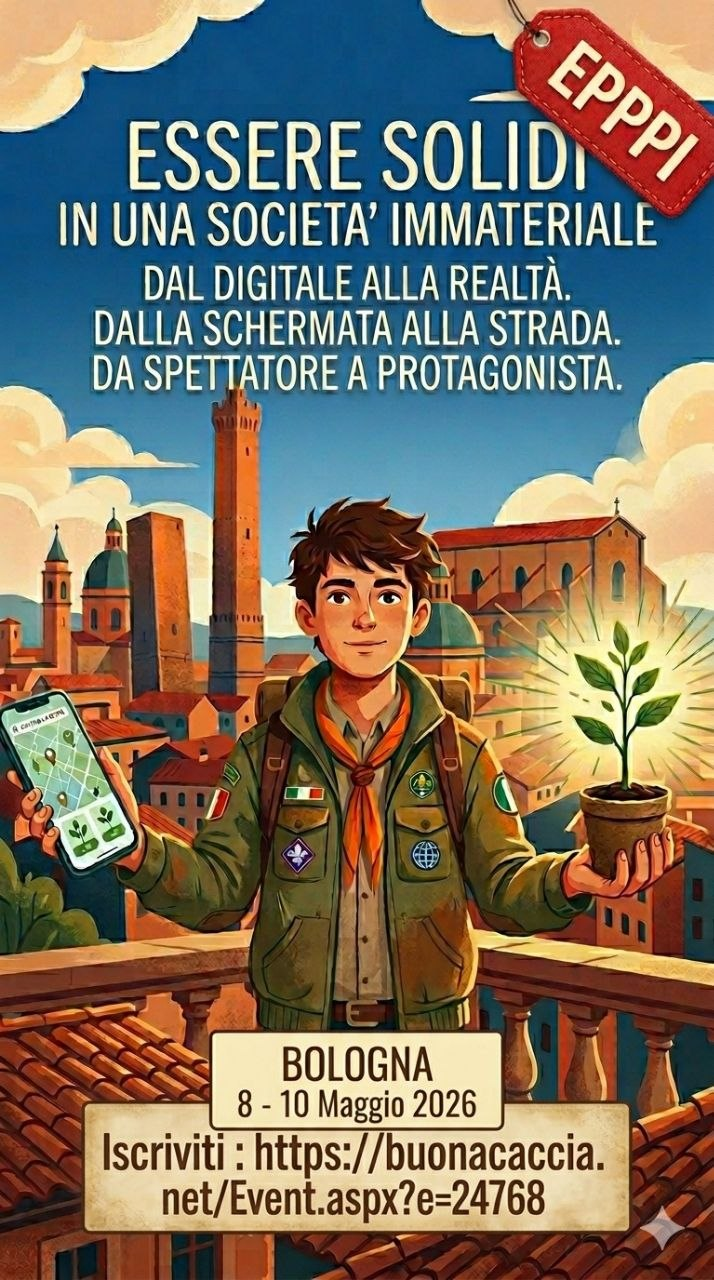
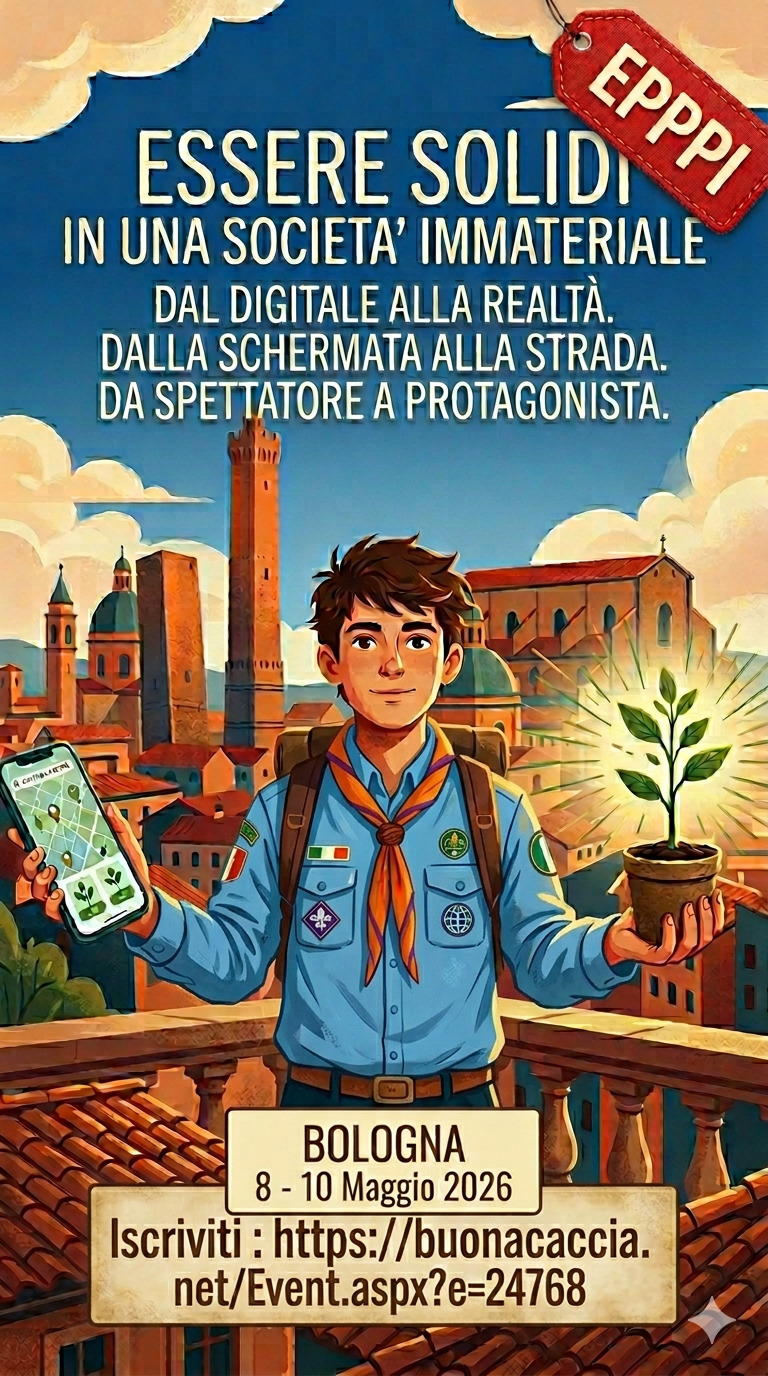
fix: corretto da 9 a 10 motivi EPPPI

diff --git a/_layouts/epppi.html b/_layouts/epppi.html
@@ -54,7 +54,7 @@ layout: default
 
 				<!-- Benefits Section -->
 				<div class="epppi-highlight">
-					<h3><i class="fas fa-star" style="color: #f39c12;"></i> 9 motivi per cui questo EPPPI è diverso</h3>
+					<h3><i class="fas fa-star" style="color: #f39c12;"></i> 10 motivi per cui questo EPPPI è diverso</h3>
 					{% for highlight in page.highlights %}
 					<p><strong>{{ forloop.index }}.</strong> {{ highlight }}</p>
 					{% endfor %}
